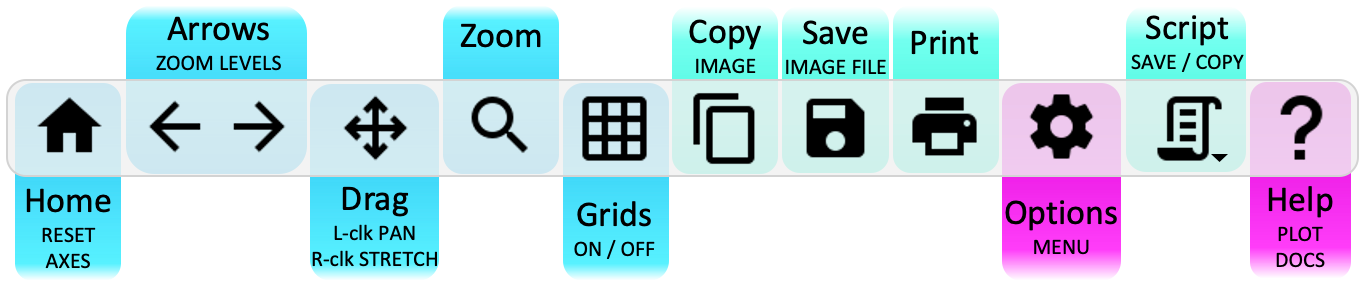
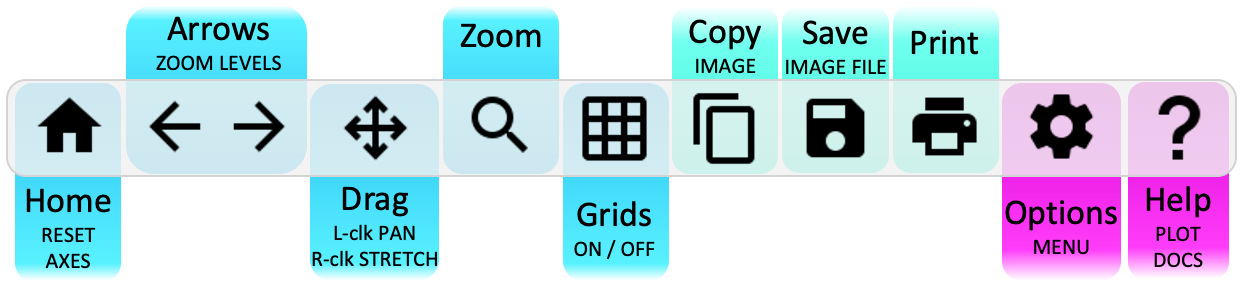
Update tiled plot documentation with removed button
The script generator button has been removed from tiled plots so this
commit updates the screenshot and instructions to match

diff --git a/docs/source/plotting/1DPlotsHelp.rst b/docs/source/plotting/1DPlotsHelp.rst
@@ -182,7 +182,7 @@ Tiled plots are essentially an array of axes (1D plots) on the same figure. As s
 Scripting
 ---------
 
-Click the generate a script button |GenerateAScript.png| on a Tiled Plot:
+An example script for a Tiled Plot:
 
 .. code-block:: python
 
